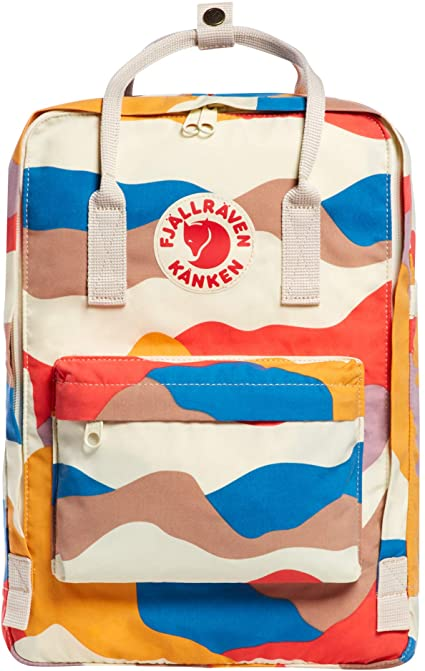
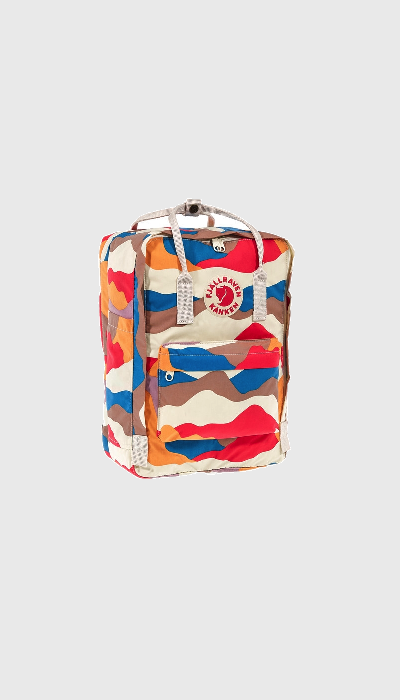
fixed height problem

diff --git a/index.html b/index.html
@@ -17,7 +17,7 @@
         <div class="items">
 
             <div class="item">
-                <img src="./Assets/img/u6.png" alt="backpack">
+                <img src="./Assets/img/lifestyle.png" alt="backpack" id="smallpic">
                     <div class="text_price">
                         <a href="https://amzn.to/32MmHgL">Kanken Art Laptop 15" Special Edition Backpack</a>
                         <p class="price">$119,00</p>
@@ -70,13 +70,81 @@
                         <p class="label">Candylab Toys </p>
              </div>
     
+
+             <div class="item">
+                <img src="./Assets/img/c3.png" alt="logo">
+                    <div class="text_price">
+                        <a href="https://www.bookdepository.com/Logo-Modernism-Jens-Muller-R-Roger-Remington/9783836545303/?a_aid=1991">Logo Modernism  </a>
+                        <p class="price">$149,00</p>
+                    </div>
+                        <p class="label">Taschen </p>
+             </div>
+
+             <div class="item">
+                <img src="./Assets/img/d7.png" alt="design">
+                    <div class="text_price">
+                        <a href="https://amzn.to/2YQLnCV">Dieter Rams: As Little Design as Possible </a>
+                        <p class="price">$150,00</p>
+                    </div>
+                        <p class="label">Sophie Lovell</p>
+             </div>
+
+             <div class="item">
+                <img src="./Assets/img/c6.png" alt="book">
+                    <div class="text_price">
+                        <a href="https://amzn.to/2FYB3zT">The Eye </a>
+                        <p class="price">$28,00</p>
+                    </div>
+                        <p class="label">Nathan Williams</p>
+             </div>
+
+             <div class="item">
+                <img src="./Assets/img/h13.png" alt="Gather Desk Organizer">
+                    <div class="text_price">
+                        <a href="https://amzn.to/2IifSvA">Gather Desk Organizer </a>
+                        <p class="price">$149,00</p>
+                    </div>
+                        <p class="label">Ugmonk</p>
+             </div>
+
+             <div class="item">
+                <img src="./Assets/img/h8.png" alt="Dipped Canteen">
+                    <div class="text_price">
+                        <a href="https://amzn.to/2G84CiT">Dipped Canteen </a>
+                        <p class="price">$28,00</p>
+                    </div>
+                        <p class="label">Corkcicle</p>
+             </div>
+
+             <div class="item">
+                <img src="./Assets/img/h2.png" alt="Sayl Office Chair White ">
+                    <div class="text_price">
+                        <a href="https://amzn.to/2FYB3zT">Sayl Office Chair White </a>
+                        <p class="price">$599,00</p>
+                    </div>
+                        <p class="label">Hermann Miller</p>
+             </div>
+
+
     </main> 
+
+
+
+
+
+
+
+
+
+
+
+
 
     <footer>
         <h3>The Design Shop</h3>
         <p class="small">
             Carefully curated online design store, <br>
-            founded ans designed by <b>Ruby Bacanovic</b>
+            founded and designed by <b>Ruby Bacanovic</b>
         </p>
         <h3>Contact</h3>
         <p class="small">

diff --git a/Assets/css/style.css b/Assets/css/style.css
@@ -11,6 +11,7 @@ html, body {
     background:#EEEEEE
 }
 
+
 p {
     color: #323A45;
 }
@@ -28,15 +29,27 @@ header {
 .items {
     display: grid;
     grid-template-columns: 1fr;
-    grid-template-rows: repeat(33, 1fr )
+    grid-template-rows: repeat(33, 600px );
 }
 
 img {
-    height: 70vh;
+    height: auto;
+    width: 375px;
 }
+
+ #smallpic {
+    height: 70vh;
+    width: auto;
+    margin-left: 50px;
+} 
 
 nav img {
     height: 20px;
+    width: 20px;
+}
+
+a {
+    text-decoration: none;
 }
 
 /* Eigene Klasse für Artikelbeschreibung (text) und Price, damit es im grid nebeneinander steht */
@@ -78,9 +91,6 @@ nav img {
 
 /* footer */
 
-footer {
-    margin-bottom: ;
-}
 
 .small, .small a  {
     color: #323A45;
